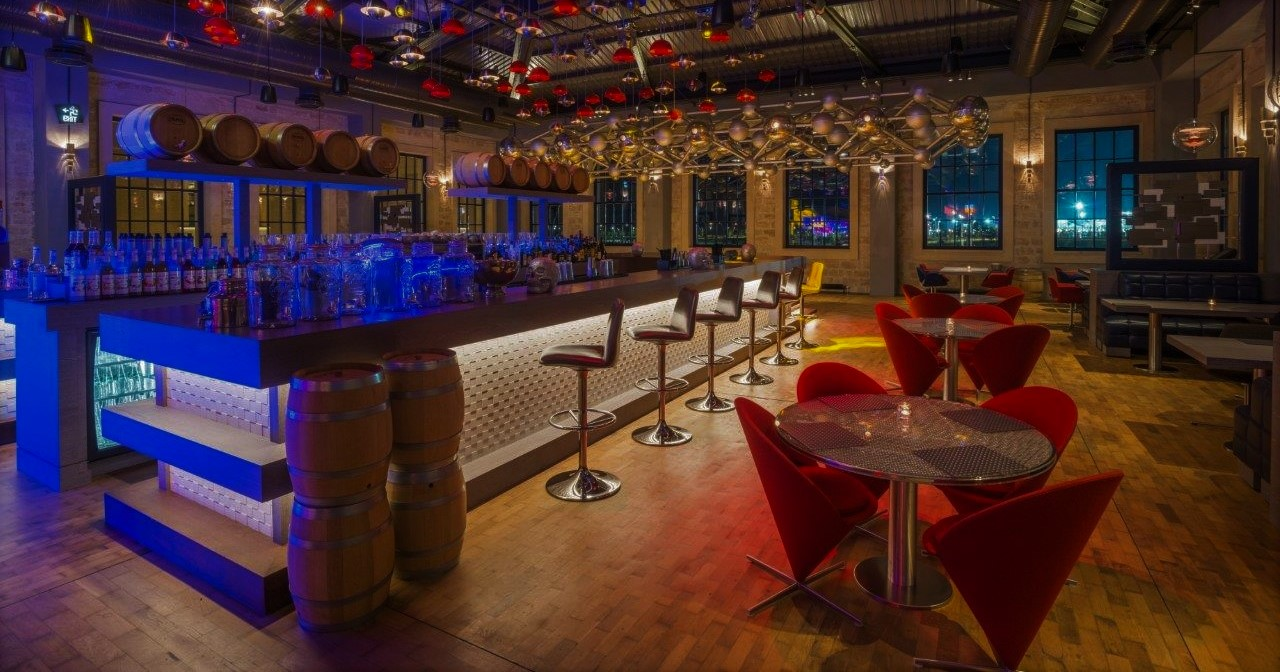
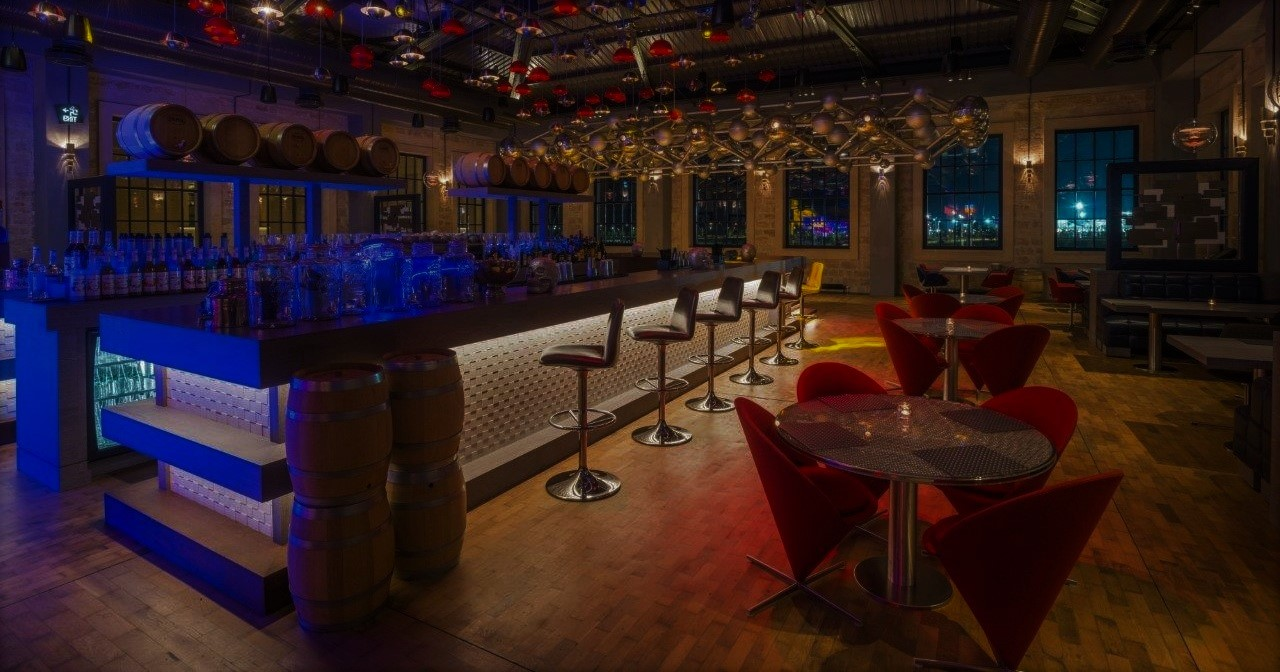
all place-* pages, homepage: major data changes.

diff --git a/home.html b/home.html
@@ -32,11 +32,11 @@
                             <div class="logo col-sm-12 col-md-5 col-lg-2">
                                 <h1>Restaurator</h1>
                             </div>
-                            <div class="nav-menu col-sm-12 col-md-6 col-lg-4">
+                            <div class="nav-menu col-sm-12 col-md-7 col-lg-4">
                                 <ul>
                                     <li><a href="home.html">Home</a></li>
                                     <li><a href="register.html">Register</a></li>
-                                    <li><a href="login.html">Sign In</a></li>
+                                    <li><a href="login.html">Login</a></li>
                                 </ul>
                             </div>
                         </div>
@@ -150,13 +150,12 @@
             <div class="place family cafe col-lg-12 col-md-6 col-sm-6">
                 <div class="place-image col-lg-6 col-md-12 col-sm-12" data-aos="fade-right" data-aos-duration="1300"
                     data-aos-easing="ease-in-out" data-aos-once="true">
-                    <img src="./assets/img/Places/cafecity/cafecity1.jpg" alt="cafecity"
-                        style="filter: brightness(0.9)">
+                    <img src="./assets/img/Places/malacannes/malacannes-main.jpg" alt="malacannes">
                 </div>
                 <div class="place-info col-lg-6 col-md-12 col-sm-12">
-                    <h2>CafeCity</h2>
+                    <h2>Malacannes 145</h2>
                     <h6><span>Place type:</span> Cafe, Family</h6>
-                    <button><a href="./place-cafecity.html">See More...</a></button>
+                    <button><a href="./place-malacannes.html">See More...</a></button>
                 </div>
             </div>
             <div class="place bar restaurant col-lg-12 col-md-6 col-sm-6">
@@ -173,7 +172,7 @@
             <div class="place coffeeshop col-lg-12 col-md-6 col-sm-6">
                 <div class="place-image col-lg-6 col-md-12 col-sm-12" data-aos="fade-right" data-aos-duration="1300"
                     data-aos-easing="ease-in-out" data-aos-once="true">
-                    <img src="./assets/img/Places/coffeestation/coffeest2.jpg" alt="coffeestation">
+                    <img src="./assets/img/Places/coffeestation/coffeest-background2.jpg" alt="coffeestation">
                 </div>
                 <div class="place-info col-lg-6 col-md-12 col-sm-12">
                     <h2>Coffee Station</h2>
@@ -183,24 +182,24 @@
             </div>
             <div class="place fastfood family col-lg-12 col-md-6 col-sm-6">
                 <div class="place-info col-lg-6 col-md-12 col-sm-12">
-                    <h2>Fryday</h2>
-                    <h6><span>Place type:</span> Fastfood, Family</h6>
-                    <button><a href="./place-fryday.html">See More...</a></button>
+                    <h2>Marivanna</h2>
+                    <h6><span>Place type:</span>Restaurant, Casual, Family</h6>
+                    <button><a href="./place-marivanna.html">See More...</a></button>
                 </div>
                 <div class="place-image col-lg-6 col-md-12 col-sm-12" data-aos="fade-left" data-aos-duration="1300"
                     data-aos-easing="ease-in-out" data-aos-once="true">
-                    <img src="./assets/img/Places/fryday/fryday3.jpg" alt="fryday">
+                    <img src="./assets/img/Places/marivanna/marivanna-main1.jpg" alt="marivanna">
                 </div>
             </div>
             <div class="place restaurant family col-lg-12 col-md-6 col-sm-6">
                 <div class="place-image col-lg-6 col-md-12 col-sm-12" data-aos="fade-right" data-aos-duration="1300"
                     data-aos-easing="ease-in-out" data-aos-once="true">
-                    <img src="./assets/img/Places/zogal/zogal3.jpg" alt="zogal">
+                    <img src="./assets/img/Places/lavenue/lavenue-main.jpg" alt="lavenue">
                 </div>
                 <div class="place-info col-lg-6 col-md-12 col-sm-12">
-                    <h2>Zogal</h2>
+                    <h2>L'avenue</h2>
                     <h6><span>Place type:</span> Restaurant, Family</h6>
-                    <button><a href="./place-zogal.html">See More...</a></button>
+                    <button><a href="./place-lavenue.html">See More...</a></button>
                 </div>
             </div>
             <div class="place restaurant eastern col-lg-12 col-md-6 col-sm-6">
@@ -268,6 +267,7 @@
 
     <!-- ALL JS HERE -->
     <script src="./assets/styles/js/restaurants-list.js"></script>
+    <script src="./assets/styles/js/navbar-scroll.js"></script>
     <script src="https://unpkg.com/aos@next/dist/aos.js"></script>
     <script>
         AOS.init();

diff --git a/place-malacannes.html b/place-malacannes.html
@@ -12,12 +12,12 @@
         href="https://fonts.googleapis.com/css?family=Cormorant+Garamond:300,300i,400,700,700i|Montserrat:300,400|Sacramento&display=swap"
         rel="stylesheet" />
     <link rel="stylesheet" href="https://unpkg.com/aos@next/dist/aos.css" />
-    <title>Restaurator - Cafecity</title>
+    <title>Restaurator - Malacannes 145</title>
 </head>
 
-<body id="place-cafecity">
+<body id="place-malacannes">
     <!-- NAV + TOP PART OF PAGE -->
-    <section id="cafecity-top">
+    <section id="malacannes-top">
         <div class="background-img-container">
             <div class="background-img">
                 <!-- NAV -->
@@ -34,10 +34,8 @@
                                     <li><a href="#">Reservation</a></li>
                                     <li><a href="register.html">Register</a></li>
                                     <li><a href="login.html">Sign In</a></li>
-                                    <li><a href="https://www.instagram.com/cafecitybaku/?hl=en"><i
-                                                class="fab fa-instagram"></i></a></li>
-                                    <li><a href="https://www.facebook.com/kafesiti/"><i
-                                                class="fab fa-facebook-f"></i></a></li>
+                                    <li><a href="https://www.instagram.com/malacannes/?hl=en"><i class="fab fa-instagram"></i></a></li>
+                                    <li><a href="https://www.facebook.com/malacannes/"><i class="fab fa-facebook-f"></i></a></li>
                                 </ul>
                             </div>
                         </div>
@@ -52,7 +50,11 @@
 
                 <div class="top-heading">
                     <h1 class="heading1" data-aos="fade-right" data-aos-duration="3000" data-aos-easing="ease-in-out"
-                        data-aos-once="true">CafeCity</h1>
+                        data-aos-once="true">Malacannes</h1>
+                    <h1 class="heading2" data-aos="fade-left" data-aos-duration="3000" data-aos-easing="ease-in-out"
+                        data-aos-once="true">145</h1>
+                    <p class="baku" data-aos="fade-up" data-aos-duration="2000" data-aos-easing="ease-in-out"
+                        data-aos-once="true">BAKU</p>
                 </div>
 
                 <!-- PAGE TOP HEADING -->

diff --git a/place-lavenue.html b/place-lavenue.html
@@ -12,12 +12,12 @@
         href="https://fonts.googleapis.com/css?family=Cormorant+Garamond:300,300i,400,700,700i|Montserrat:300,400|Sacramento&display=swap"
         rel="stylesheet" />
     <link rel="stylesheet" href="https://unpkg.com/aos@next/dist/aos.css" />
-    <title>Restaurator - Zogal</title>
+    <title>Restaurator - L'avenue</title>
 </head>
 
-<body id="place-zogal">
+<body id="place-lavenue">
     <!-- NAV + TOP PART OF PAGE -->
-    <section id="zogal-top">
+    <section id="lavenue-top">
         <div class="background-img-container">
             <div class="background-img">
                 <!-- NAV -->
@@ -34,11 +34,8 @@
                                     <li><a href="#">Reservation</a></li>
                                     <li><a href="register.html">Register</a></li>
                                     <li><a href="login.html">Sign In</a></li>
-                                    <li><a href="https://www.instagram.com/zogalrestaurant/?hl=en"><i
-                                                class="fab fa-instagram"></i></a></li>
-                                    <li><a
-                                            href="https://www.facebook.com/pages/Zogal-Restaurant-and-Music-Hall/446761945391879"><i
-                                                class="fab fa-facebook-f"></i></a></li>
+                                    <li><a href="https://www.instagram.com/lavenuebaku/?hl=en"><i class="fab fa-instagram"></i></a></li>
+                                    <li><a href="https://www.facebook.com/lavenuebaku/"><i class="fab fa-facebook-f"></i></a></li>
                                 </ul>
                             </div>
                         </div>
@@ -53,7 +50,9 @@
 
                 <div class="top-heading">
                     <h1 class="heading1" data-aos="fade-right" data-aos-duration="3000" data-aos-easing="ease-in-out"
-                        data-aos-once="true">Zogal</h1>
+                        data-aos-once="true">L'avenue</h1>
+                    <p class="baku" data-aos="fade-up" data-aos-duration="2000" data-aos-easing="ease-in-out"
+                        data-aos-once="true">BAKU</p>
                 </div>
 
                 <!-- PAGE TOP HEADING -->

diff --git a/place-marivanna.html b/place-marivanna.html
@@ -12,12 +12,12 @@
         href="https://fonts.googleapis.com/css?family=Cormorant+Garamond:300,300i,400,700,700i|Montserrat:300,400|Sacramento&display=swap"
         rel="stylesheet" />
     <link rel="stylesheet" href="https://unpkg.com/aos@next/dist/aos.css" />
-    <title>Restaurator - Fryday</title>
+    <title>Restaurator - Marivanna</title>
 </head>
 
-<body id="place-fryday">
+<body id="place-marivanna">
     <!-- NAV + TOP PART OF PAGE -->
-    <section id="fryday-top">
+    <section id="marivanna-top">
         <div class="background-img-container">
             <div class="background-img">
                 <!-- NAV -->
@@ -34,10 +34,8 @@
                                     <li><a href="#">Reservation</a></li>
                                     <li><a href="register.html">Register</a></li>
                                     <li><a href="login.html">Sign In</a></li>
-                                    <li><a href="https://www.instagram.com/fryday.baku/?hl=en"><i
-                                                class="fab fa-instagram"></i></a></li>
-                                    <li><a href="https://www.facebook.com/fryday.az/"><i
-                                                class="fab fa-facebook-f"></i></a></li>
+                                    <li><a href=""><i class="fab fa-instagram"></i></a></li>
+                                    <li><a href=""><i class="fab fa-facebook-f"></i></a></li>
                                 </ul>
                             </div>
                         </div>
@@ -52,7 +50,9 @@
 
                 <div class="top-heading">
                     <h1 class="heading1" data-aos="fade-right" data-aos-duration="3000" data-aos-easing="ease-in-out"
-                        data-aos-once="true">Fryday</h1>
+                        data-aos-once="true">Marivanna</h1>
+                    <p class="baku" data-aos="fade-up" data-aos-duration="2000" data-aos-easing="ease-in-out"
+                        data-aos-once="true">BAKU</p>
                 </div>
 
                 <!-- PAGE TOP HEADING -->

diff --git a/assets/styles/css/main.css b/assets/styles/css/main.css
@@ -123,9 +123,13 @@ body {
   width: 100%;
 }
 
+.background-img-container .background-img .nav-scrolled {
+  background-color: red;
+}
+
 .background-img-container .background-img .nav-bar {
   height: 100px;
-  position: absolute;
+  position: fixed;
   width: 100%;
   z-index: 5;
 }
@@ -451,6 +455,8 @@ footer .footer-content .footer-menu ul li {
   height: 100%;
   width: 100%;
   margin: auto;
+  -webkit-filter: saturate(0.7);
+          filter: saturate(0.7);
 }
 
 #restaurants-list .grid .place .place-info {
@@ -546,11 +552,10 @@ footer .footer-content .footer-menu ul li {
   height: 44px;
 }
 
-#cafecity-top .background-img-container .background-img {
-  background-image: url(../../img/Places/cafecity/cafecity-background1.jpg);
+#malacannes-top .background-img-container .background-img {
+  background-image: url(../../img/Places/malacannes/malacannes-background.jpg);
   background-repeat: no-repeat;
-  background-position: center;
-  background-size: 100%;
+  background-size: cover;
 }
 
 #maya-top .background-img-container .background-img {
@@ -559,8 +564,8 @@ footer .footer-content .footer-menu ul li {
   background-size: 100%;
 }
 
-#zogal-top .background-img-container .background-img {
-  background-image: url(../../img/Places/zogal/zogal-background1.jpg);
+#lavenue-top .background-img-container .background-img {
+  background-image: url(../../img/Places/lavenue/lavenue-background.jpg);
   background-repeat: no-repeat;
   background-size: 100%;
 }
@@ -577,10 +582,11 @@ footer .footer-content .footer-menu ul li {
   background-size: 100%;
 }
 
-#fryday-top .background-img-container .background-img {
-  background-image: url(../../img/Places/fryday/fryday-background1.jpg);
+#marivanna-top .background-img-container .background-img {
+  background-image: url(../../img/Places/marivanna/marivanna-background1.jpg);
   background-repeat: no-repeat;
   background-size: 100%;
+  background-position: center;
 }
 
 #coffeest-top .background-img-container .background-img {

diff --git a/place-coffeest.html b/place-coffeest.html
@@ -27,13 +27,13 @@
                             <div class="logo col-sm-12 col-md-5 col-lg-2">
                                 <h1>Restaurator</h1>
                             </div>
-                            <div class="nav-menu col-sm-12 col-md-6 col-lg-5">
+                            <div class="nav-menu col-sm-12 col-md-7 col-lg-5">
                                 <ul>
                                     <li><a href="home.html">Home</a></li>
                                     <li><a href="#">About Us</a></li>
                                     <li><a href="#">Reservation</a></li>
                                     <li><a href="register.html">Register</a></li>
-                                    <li><a href="login.html">Sign In</a></li>
+                                    <li><a href="login.html">Login</a></li>
                                     <li><a href="https://www.instagram.com/coffeestation.az/?hl=en"><i
                                                 class="fab fa-instagram"></i></a></li>
                                     <li><a href="https://www.facebook.com/CoffeeStationBaku/"><i
@@ -55,6 +55,8 @@
                         data-aos-once="true">Coffee</h1>
                     <h1 class="heading2" data-aos="fade-left" data-aos-duration="3000" data-aos-easing="ease-in-out"
                         data-aos-once="true">Station</h1>
+                    <p class="baku" data-aos="fade-up" data-aos-duration="2000" data-aos-easing="ease-in-out"
+                        data-aos-once="true">BAKU</p>
                 </div>
 
                 <!-- PAGE TOP HEADING -->

diff --git a/place-yuka.html b/place-yuka.html
@@ -27,7 +27,7 @@
                             <div class="logo col-sm-12 col-md-5 col-lg-2">
                                 <h1>Restaurator</h1>
                             </div>
-                            <div class="nav-menu col-sm-12 col-md-6 col-lg-5">
+                            <div class="nav-menu col-sm-12 col-md-7 col-lg-5">
                                 <ul>
                                     <li><a href="home.html">Home</a></li>
                                     <li><a href="#">About Us</a></li>
@@ -52,9 +52,11 @@
 
                 <div class="top-heading">
                     <h1 class="heading1" data-aos="fade-right" data-aos-duration="3000" data-aos-easing="ease-in-out"
-                        data-aos-once="true">Yuka Kaiten</h1>
+                        data-aos-once="true">Yuka</h1>
                     <h1 class="heading2" data-aos="fade-left" data-aos-duration="3000" data-aos-easing="ease-in-out"
-                        data-aos-once="true">Sushi Bar</h1>
+                        data-aos-once="true">Kaiten</h1>
+                    <p class="baku" data-aos="fade-up" data-aos-duration="2000" data-aos-easing="ease-in-out"
+                        data-aos-once="true">BAKU</p>
                 </div>
 
                 <!-- PAGE TOP HEADING -->

diff --git a/place-maya.html b/place-maya.html
@@ -50,9 +50,11 @@
 
                 <div class="top-heading">
                     <h1 class="heading1" data-aos="fade-right" data-aos-duration="3000" data-aos-easing="ease-in-out"
-                        data-aos-once="true">Maya Mexican</h1>
+                        data-aos-once="true">Maya</h1>
                     <h1 class="heading2" data-aos="fade-left" data-aos-duration="3000" data-aos-easing="ease-in-out"
-                        data-aos-once="true">Restaurant & Bar</h1>
+                        data-aos-once="true">Mexican</h1>
+                    <p class="baku" data-aos="fade-up" data-aos-duration="2000" data-aos-easing="ease-in-out"
+                        data-aos-once="true">BAKU</p>
                 </div>
 
                 <!-- PAGE TOP HEADING -->

diff --git a/assets/styles/css/main.scss b/assets/styles/css/main.scss
@@ -6,11 +6,11 @@
 @import './pages/homepage/index';
 @import './pages/register-login/index';
 
-@import './pages/place-cafecity/index';
+@import './pages/place-malacannes/index';
 @import './pages/place-maya/index';
-@import './pages/place-zogal/index';
+@import './pages/place-lavenue/index';
 @import './pages/place-yuka/index';
 @import './pages/place-lviv/index';
-@import './pages/place-fryday/index';
+@import './pages/place-marivanna/index';
 @import './pages/place-coffeest/index';
 @import './pages/place-sumakh/index';

diff --git a/place-lviv.html b/place-lviv.html
@@ -55,6 +55,8 @@
                         data-aos-once="true">Lviv</h1>
                     <h1 class="heading2" data-aos="fade-left" data-aos-duration="3000" data-aos-easing="ease-in-out"
                         data-aos-once="true">Handmade Chocolate</h1>
+                    <p class="baku" data-aos="fade-up" data-aos-duration="2000" data-aos-easing="ease-in-out"
+                        data-aos-once="true">BAKU</p>
                 </div>
 
                 <!-- PAGE TOP HEADING -->

diff --git a/place-sumakh.html b/place-sumakh.html
@@ -55,6 +55,8 @@
                         data-aos-once="true">Sumakh</h1>
                     <h1 class="heading2" data-aos="fade-left" data-aos-duration="3000" data-aos-easing="ease-in-out"
                         data-aos-once="true">Restaurant</h1>
+                    <p class="baku" data-aos="fade-up" data-aos-duration="2000" data-aos-easing="ease-in-out"
+                        data-aos-once="true">BAKU</p>
                 </div>
 
                 <!-- PAGE TOP HEADING -->

diff --git a/assets/styles/js/navbar-scroll.js b/assets/styles/js/navbar-scroll.js
@@ -1,0 +1,16 @@
+var navbar = document.getElementsByClassName("nav-bar");
+
+window.addEventListener('scroll', function () {
+    AddClass(navbar, "nav-scrolled");
+});
+
+function AddClass(element, name) {
+    var i, arr1, arr2;
+    arr1 = element.className.split(" ");
+    arr2 = name.split(" ");
+    for (i = 0; i < arr2.length; i++) {
+        if (arr1.indexOf(arr2[i]) == -1) {
+            element.className += " " + arr2[i];
+        }
+    }
+}
